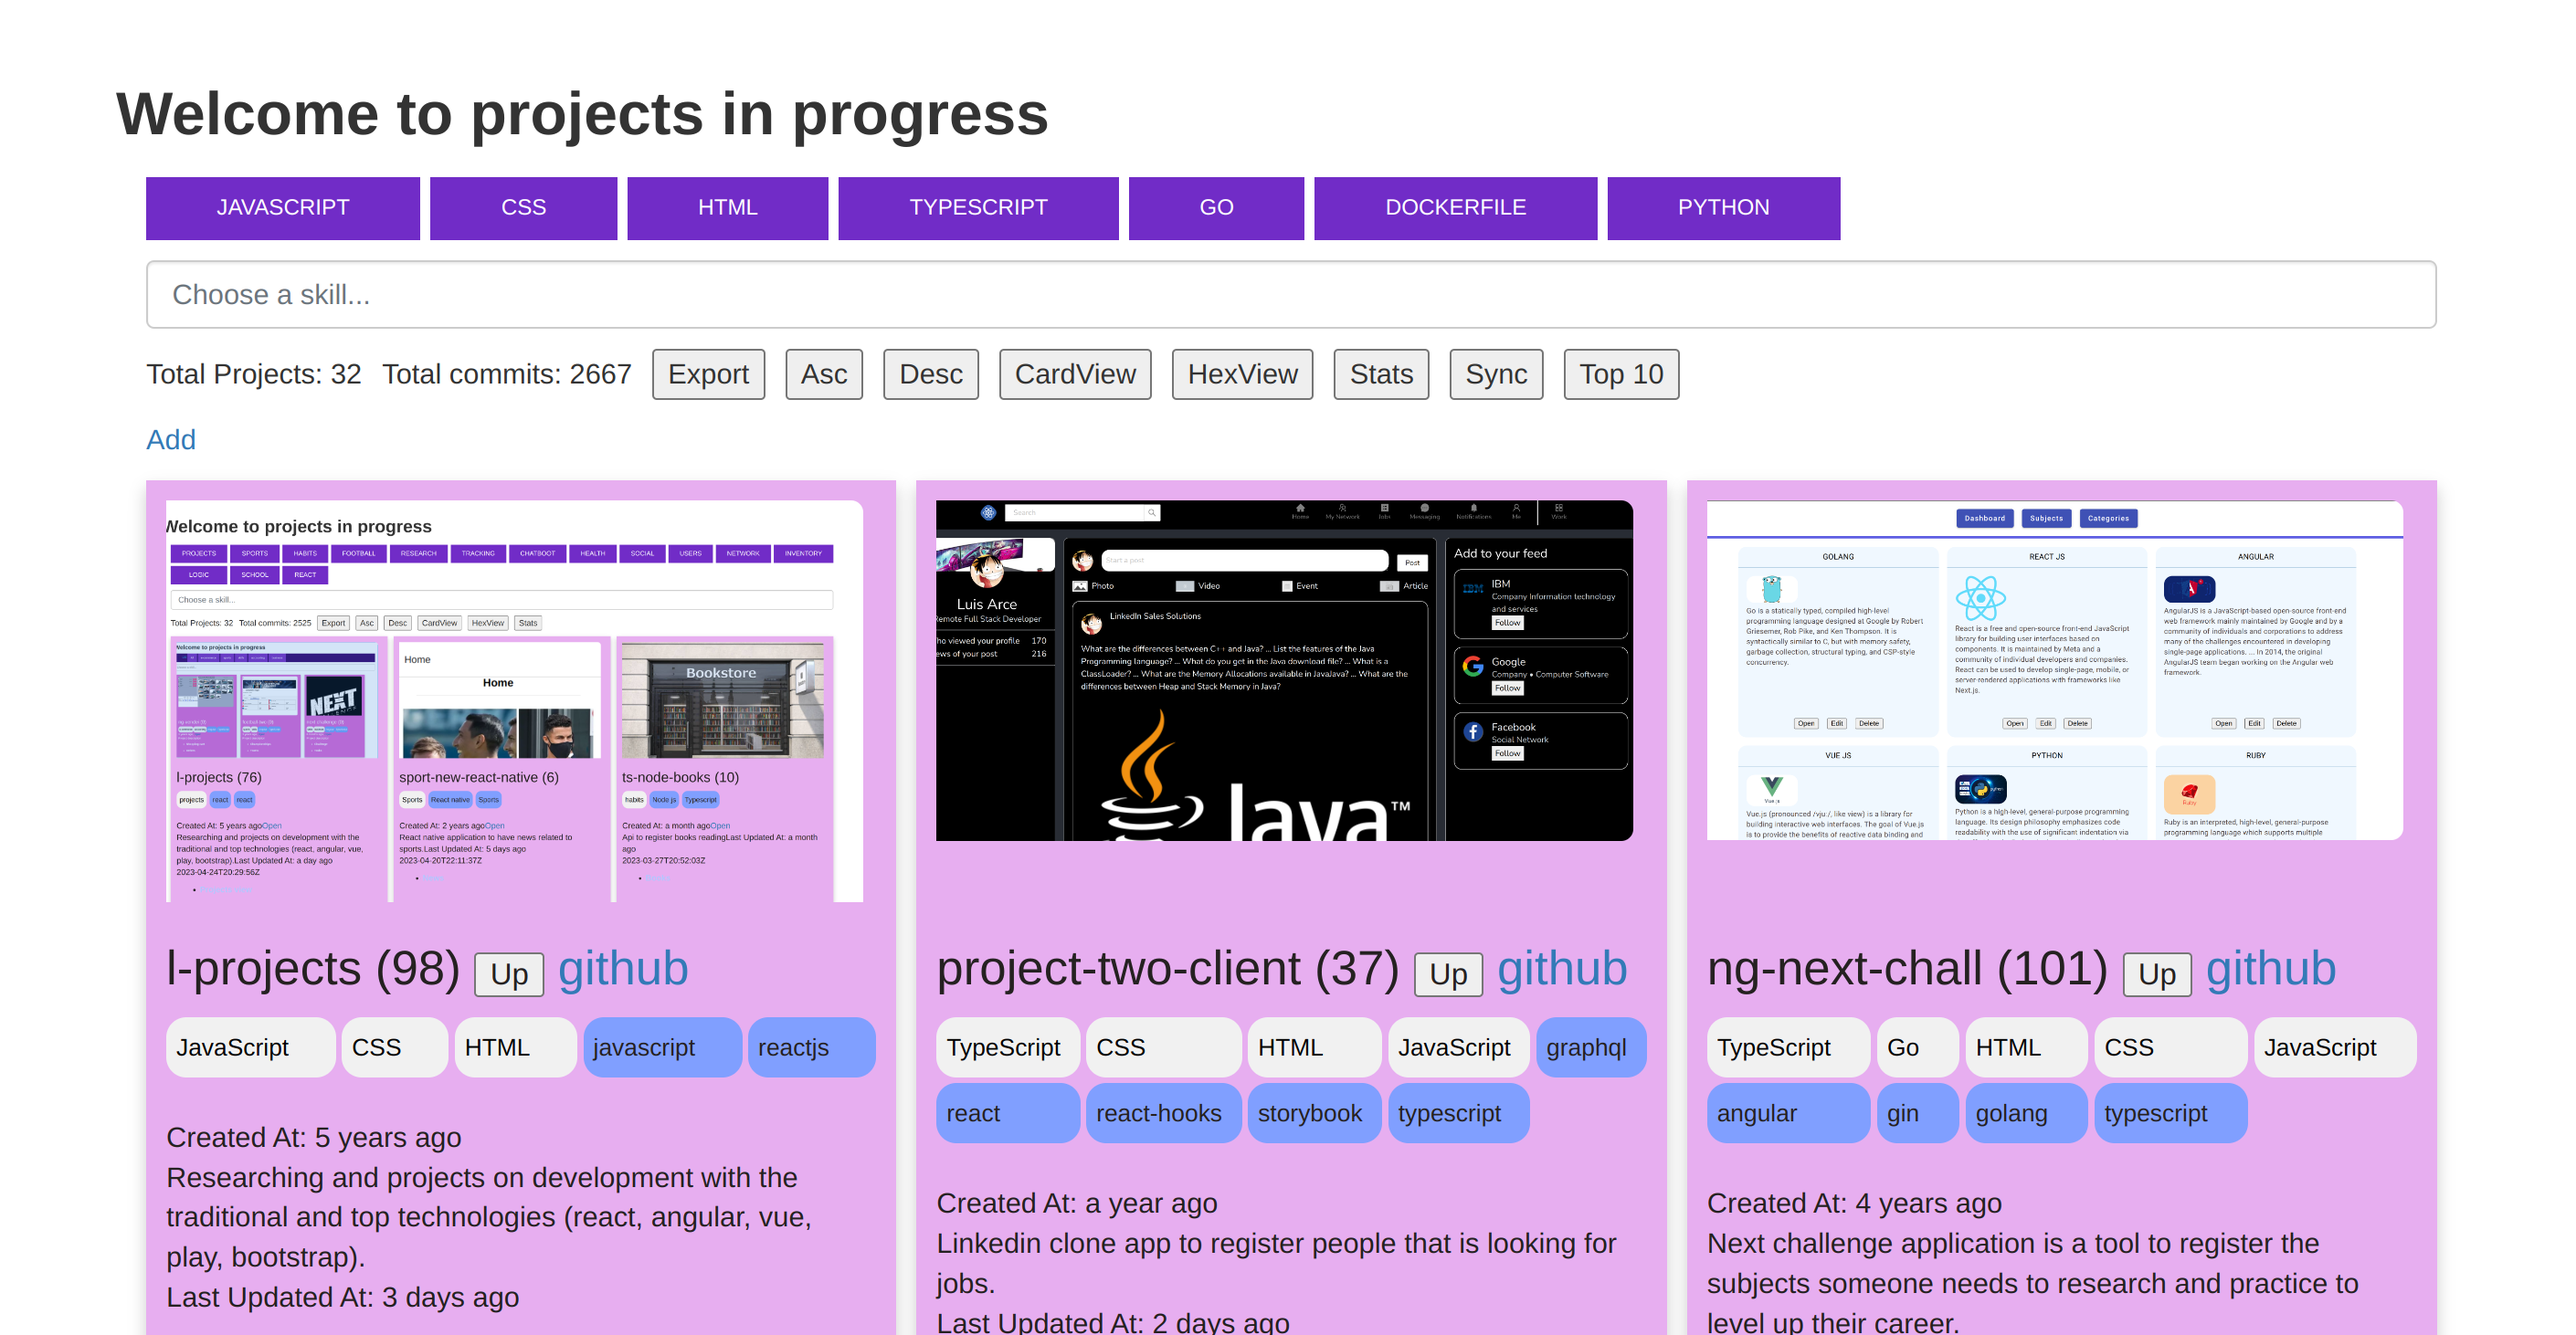
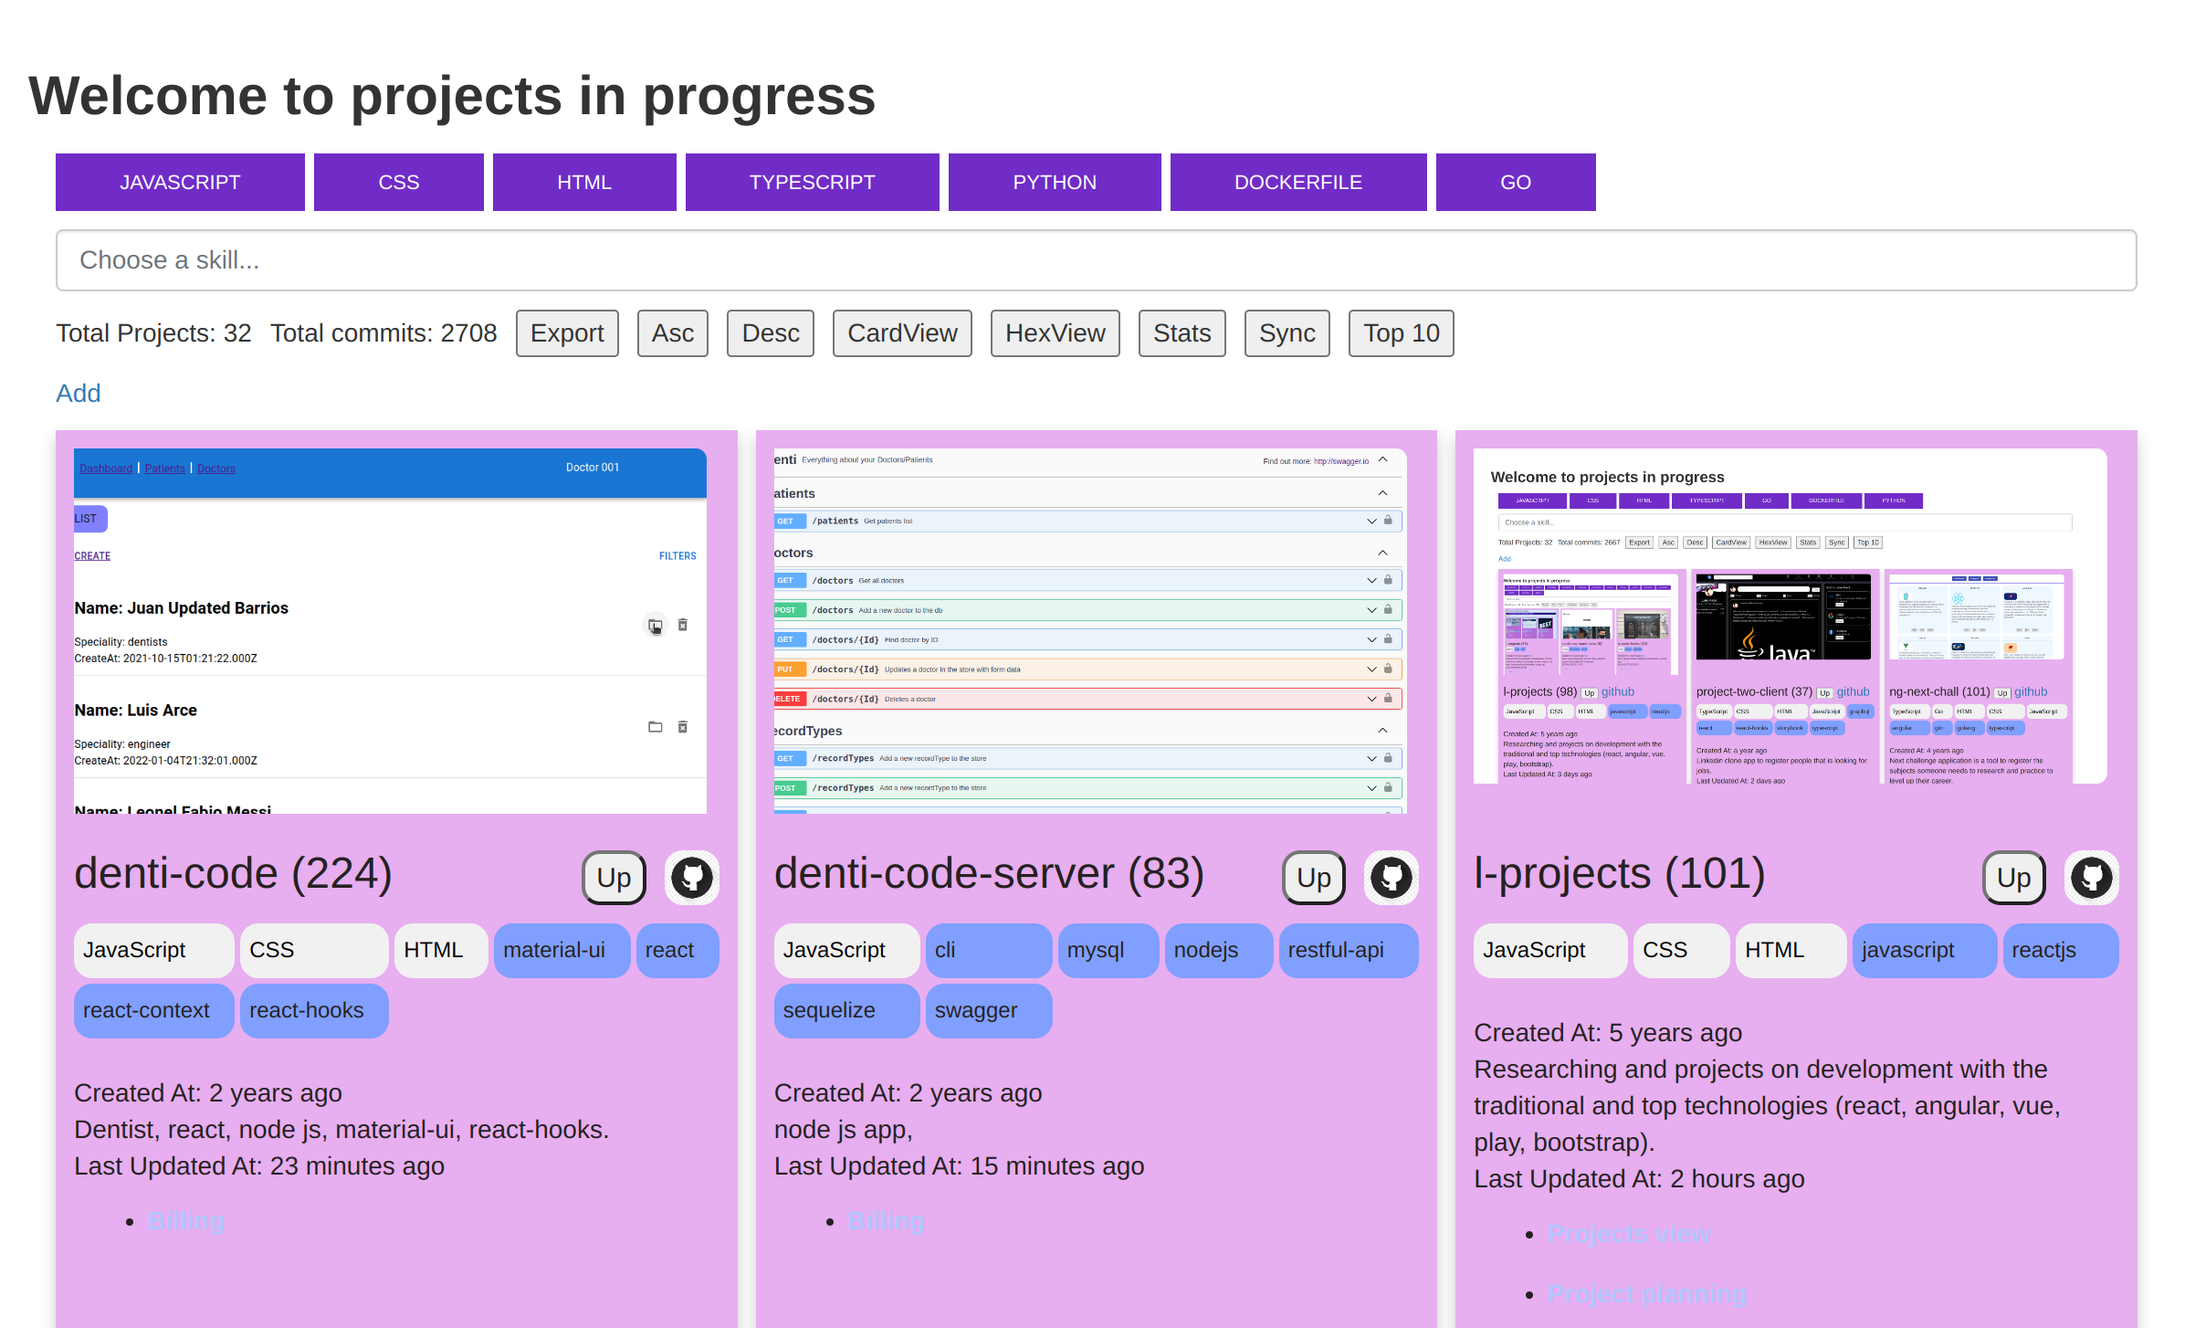
home: Update home page's action buttons

diff --git a/src/projects/viewMode/ProjectCard.js b/src/projects/viewMode/ProjectCard.js
@@ -30,8 +30,17 @@ class ProjectCard extends Component {
                 />
               </Link>
             </figure>
-            <h3>
-              {project.name} ({project.contributions}) <button className="move-up" onClick={() => this.props.moveUp(project)}>Up</button> <a href={project.dir}>github</a>
+            <h3 className="card-title">
+              <span>
+                {project.name} ({project.contributions})
+              </span>
+              <div className="card-title-right">
+              <button className="move-up" onClick={() => this.props.moveUp(project)}>Up</button>
+                <a href={project.dir}>
+                  <img className="github-icon" src="https://w7.pngwing.com/pngs/914/758/png-transparent-github-social-media-computer-icons-logo-android-github-logo-computer-wallpaper-banner-thumbnail.png" />
+                </a>
+
+              </div>
             </h3>
             <div className="chips-container">
               {project.languageKeys.map(cat => (

diff --git a/src/projects/viewMode/ProjectCard.css b/src/projects/viewMode/ProjectCard.css
@@ -20,6 +20,29 @@
   color: rgb(37, 33, 33)
 }
 
+.card-title {
+  display: flex;
+  flex-direction: row;
+  gap: 1rem;
+  justify-content: space-between;
+}
+
+.card-title-right {
+  display: flex;
+  flex-direction: row;
+  gap: 1rem;
+}
+
+.card-title-right img {
+  border-radius: 10px;
+}
+
+.card-title-right button {
+  border-radius: 10px;
+}
+
+
+
 .card-view:hover {
   box-shadow: 0 8px 16px 0 rgba(0, 0, 0, 0.2);
 }
@@ -40,4 +63,9 @@
 
 .move-up {
   font-size: 15px;
+}
+
+.github-icon {
+  width: 30px;
+  height: 30px;
 }
